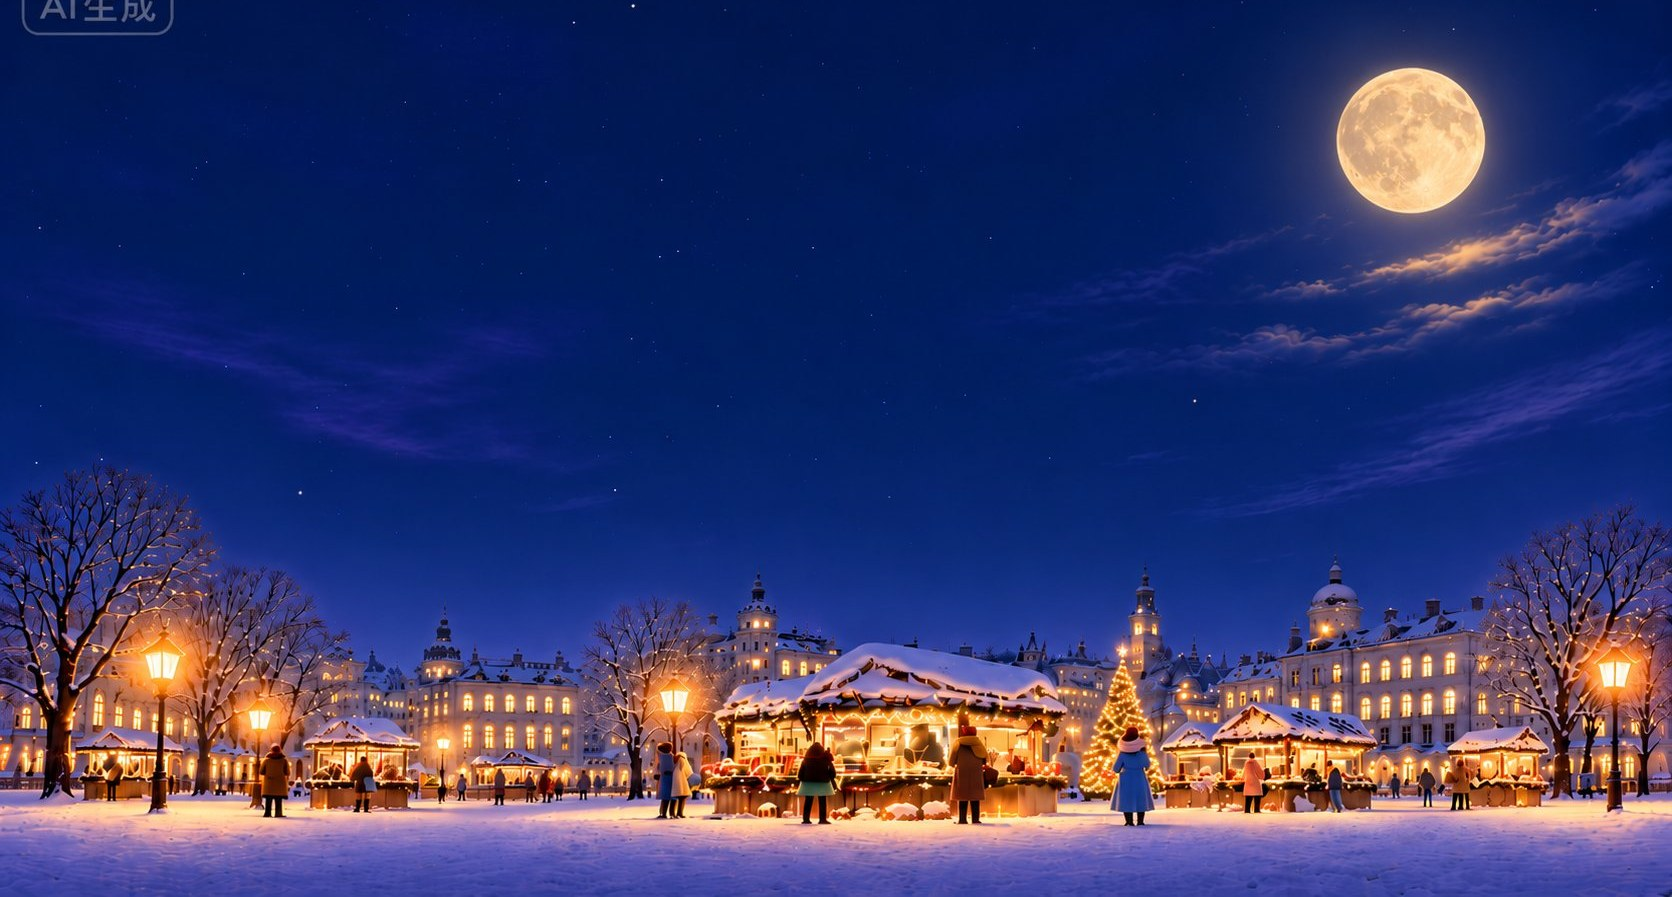
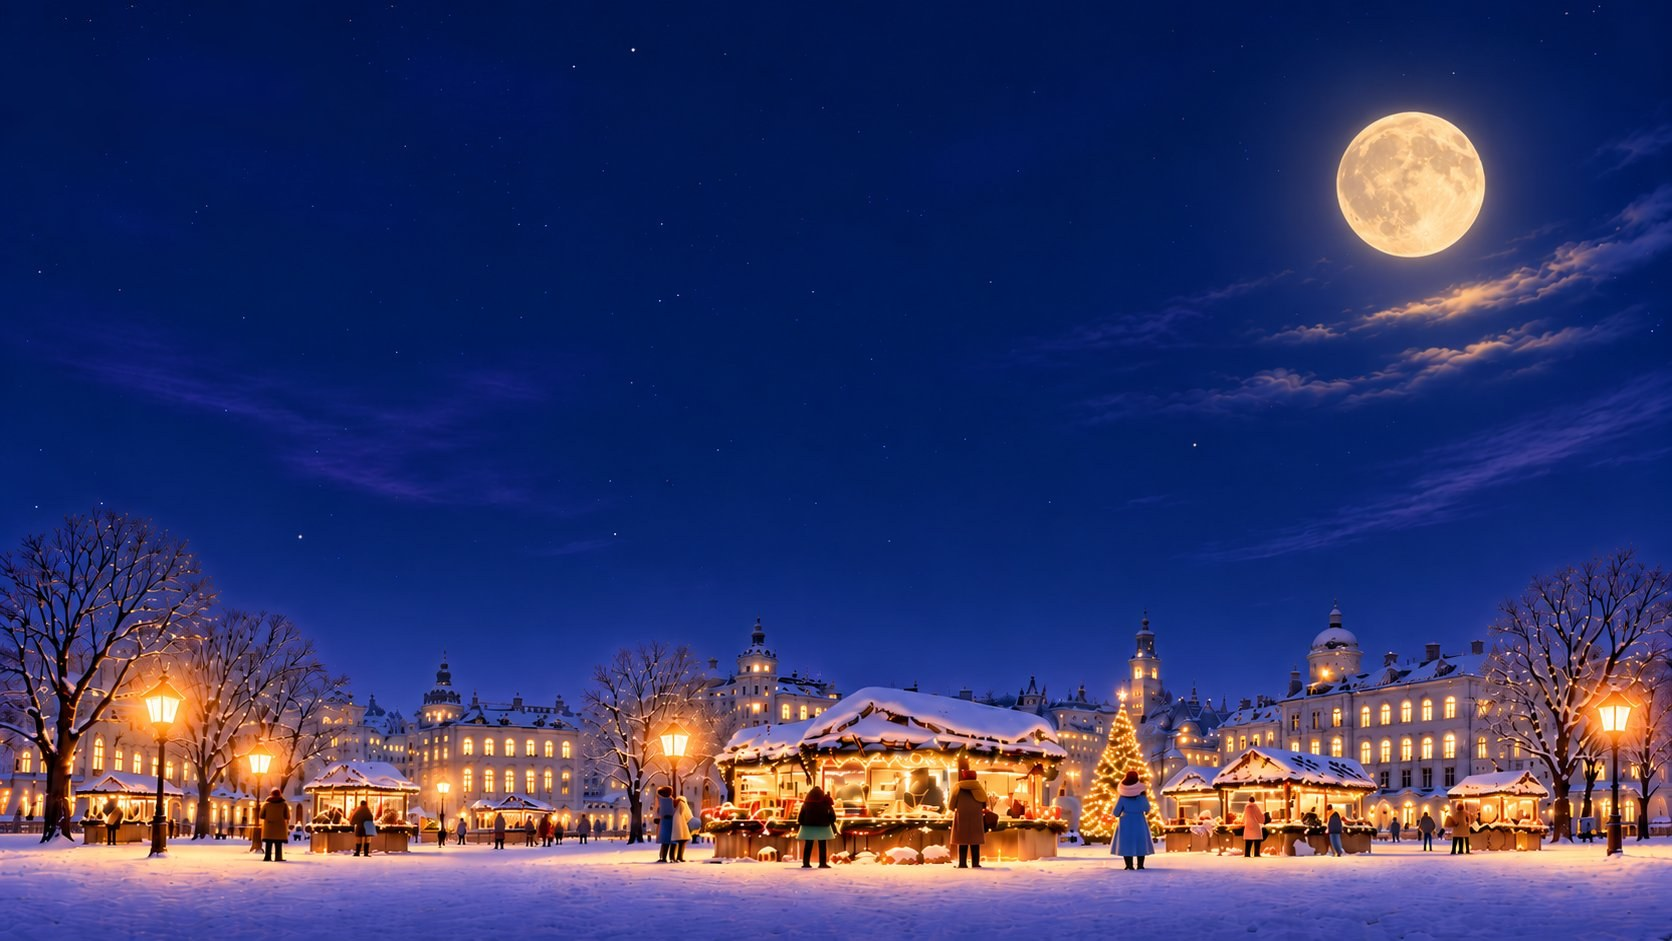
fix(christmas): goal wallpaper rebuilt at 1672x941 to match tier wallpapers (watermark patched)

diff --git a/themes/christmas/styles.css b/themes/christmas/styles.css
@@ -40,8 +40,8 @@ input::placeholder,textarea::placeholder{color:var(--faint)}
 .wallpaper-low{opacity:var(--winter-bg-low,0)}
 .wallpaper-mid{opacity:var(--winter-bg-mid,0)}
 .wallpaper-bright{opacity:var(--winter-bg-bright,0)}
-/* 达标奖励层：目标字数时仍是原四档最亮图，再多打一个字才交叉渐入这张满月市集新图 */
-.wallpaper-goal{background-image:url("assets/wallpaper-goal.jpg")}
+/* 达标奖励层：目标字数时仍是原四档最亮图，再多打一个字才交叉渐入这张满月市集新图（1672×941，与四档图同尺寸） */
+.wallpaper-goal{background-image:url("assets/wallpaper-goal.jpg?v=2")}
 .wallpaper-goal{opacity:var(--winter-bg-goal,0)}
 /* 写作区遮罩（雪落原版移植）：横向渐变 + 正文区径向渐变，最亮档时保护正文可读性。
    底部市集灯光最亮处再叠一条向上的压暗渐变，护住滚动到底部的正文行。

diff --git a/themes/christmas/index.html b/themes/christmas/index.html
@@ -6,7 +6,7 @@
   <meta name="theme-color" content="#080F1C">
   <title>圣诞快乐 · 深色码字主题</title>
   <link rel="stylesheet" href="theme.css?v=4">
-  <link rel="stylesheet" href="styles.css?v=11">
+  <link rel="stylesheet" href="styles.css?v=12">
   <script src="stats.js?v=1" defer></script>
   <script src="app.js?v=2" defer></script>
   <script src="snow.js?v=2" defer></script>
